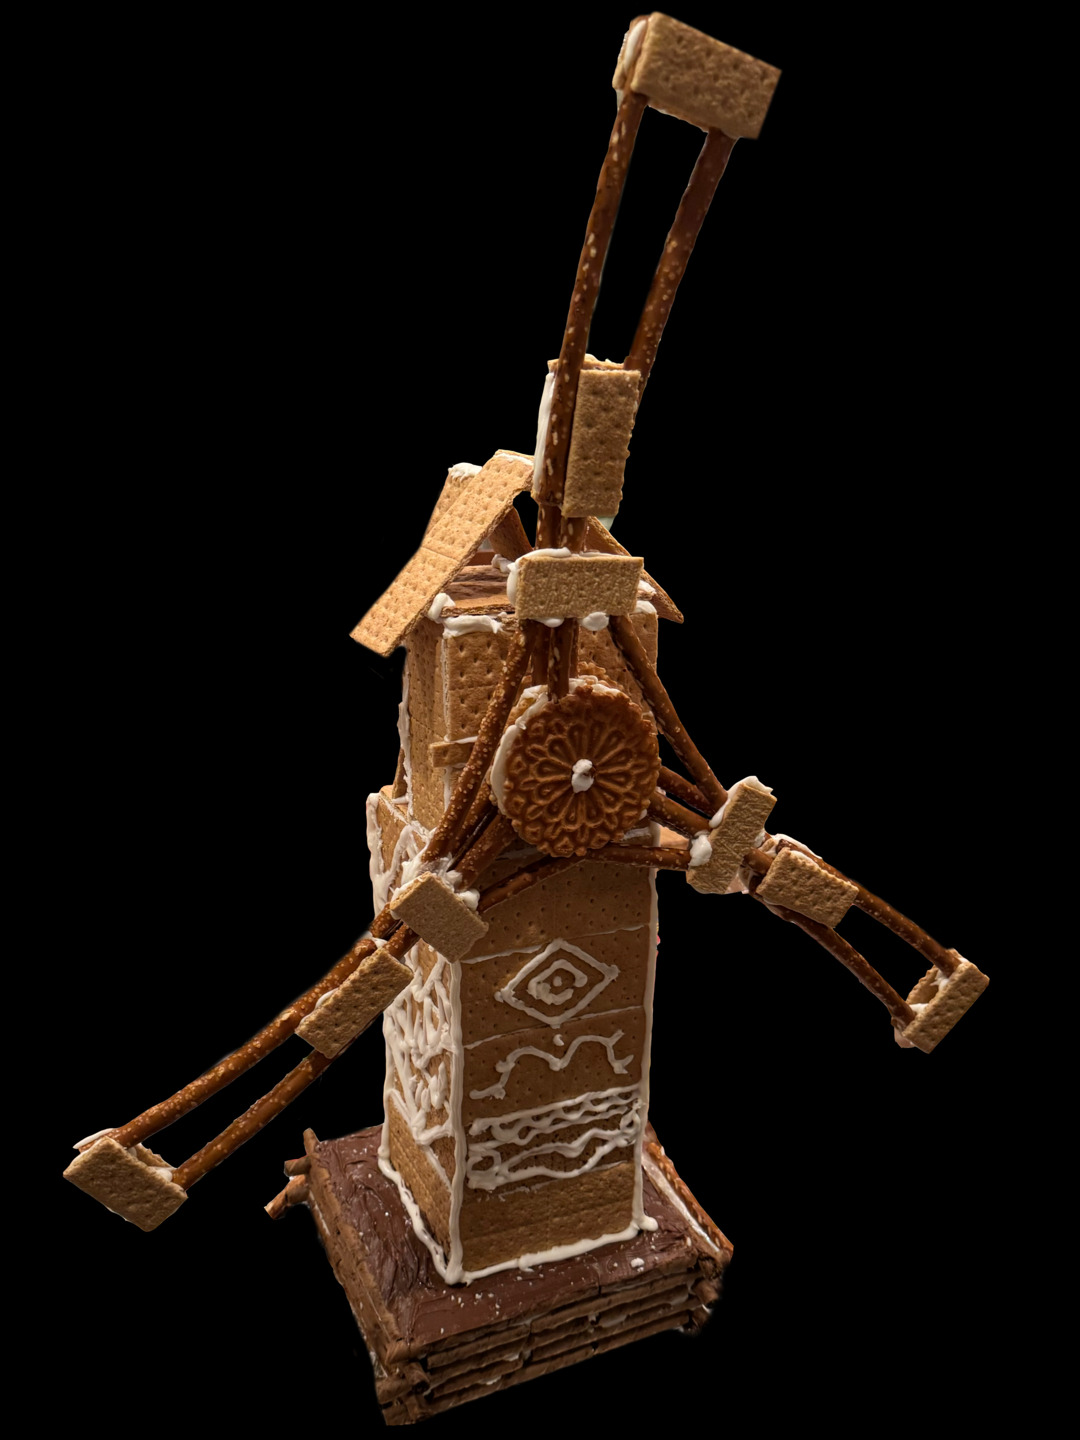
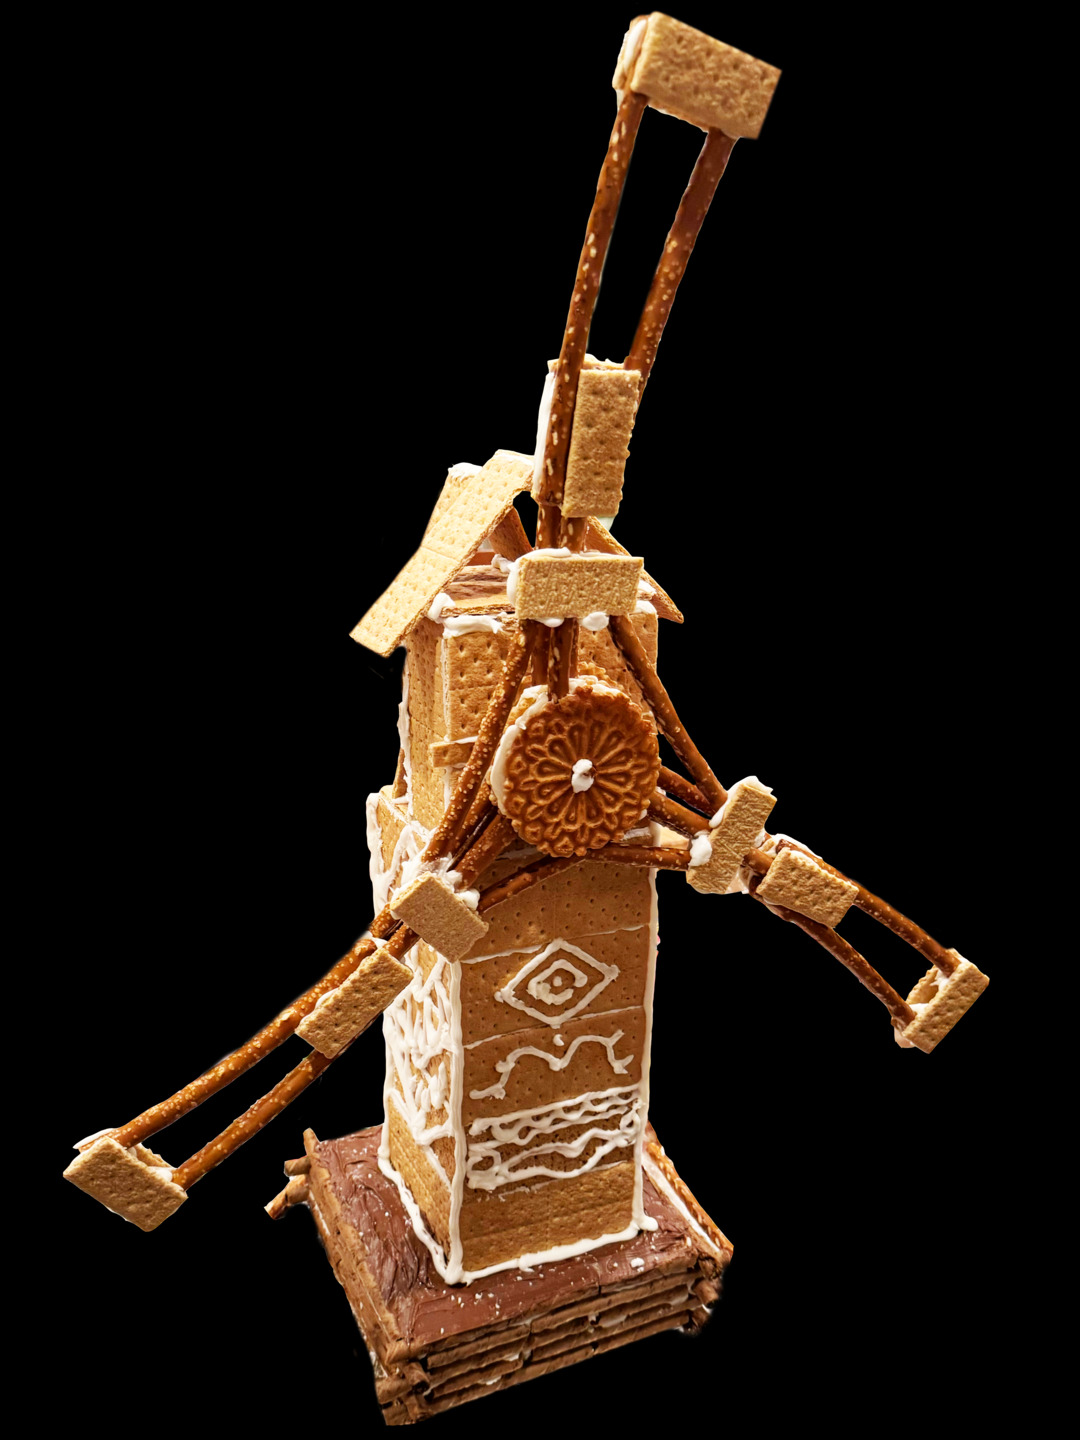
More updates to 2025 page

Changed region(s): [[0.0611, 0.0, 0.9167, 1.0]]

diff --git a/2025/draft/index.html b/2025/draft/index.html
@@ -92,9 +92,10 @@
                 </div>
                 <p class="card-text">
                     Inspired by the whimsical architecture of Shiz University,
-                    this library holds all your favorite tales.
-                    Take a journey through its shelves, ladders, and windows
-                    (and note the central shelf is actually able to rotate!)
+                    this library opens the doors to your every imagination.
+                    Wander through its nooks and candies,
+                    climb its ladders, and meet some familiar frosted faces!
+                    This edible architecture comes to life with a 360&deg; rotating shelf that will send you spinning.
                     This scene will certainly have you dancing through life!
                 </p>
                 <div class="image-slideshow">
@@ -123,10 +124,16 @@
 
             <div class="card" id="theme-park">
                 <div class="card-title">
-                    <h1>Theme Park</h1>
+                    <h1>AmuseMint Park</h1>
                     <!-- <img class="logo" src="../gallery/theme_park/logo.png" width="90px"> -->
                 </div>
-                <p class="card-text">placeholder text
+                <p class="card-text">
+                    Come dashing through the snow to these thrilling and delicious rides!
+                    Jingle all the way around the <strong>Sugar Plum Ferris Wheel</strong>.
+                    Over the hills you'll go on the <strong>Polar Roller Coaster</strong>.
+                    Laughing all the way on the <strong>Merry-Christmas-Go-Round Carousel</strong>.
+                    Making spirits fright at the <strong>Chimney Drop Tower</strong>.
+                    What fun it is to ride and sing on the <strong>Mistletoe Spinny Swing</strong>.
                 </p>
                 <div class="image-slideshow">
                     <button class="image-arrow" onclick="move_slideshow('theme-park', direction=-1)">&#10094;</button>
@@ -227,7 +234,7 @@
                     <!-- <img class="logo" src="../gallery/windmill/logo.png" width="90px"> -->
                 </div>
                 <p class="card-text">
-                    A Short Tale of Waiting and Falling<br>
+                    <em>A Short Tale of Waiting and Falling</em><br>
                     Long, long ago, the gingerbread body of this little mill was built.
                     When the walls were finished, it stood still, looking up at the sky, dreaming of its wind vanes.
                     The Mill waited with bated breath for the Master to finish the work and grant it the wings it needed to become real!
@@ -253,9 +260,6 @@
                     <img src="../gallery/windmill/2.jpg" onclick="move_slideshow('windmill', direction=null, target=1)" class="image-sm tall">
                     <img src="../gallery/windmill/3.jpg" onclick="move_slideshow('windmill', direction=null, target=2)" class="image-sm tall">
                     <img src="../gallery/windmill/4.jpg" onclick="move_slideshow('windmill', direction=null, target=3)" class="image-sm tall">
-                </div>
-                <div class="card-notice">
-                    <strong>Disclosure:</strong> After this entry suffered a catastrophic gingerbread construction incident which caused two rotor blades to detach from the windshaft, our top scientists employed advanced digital techniques (Photoshop and Christmas cheer) to depict the windmill as its creator intended.
                 </div>
             </div>
 
@@ -290,10 +294,12 @@
 
             <div class="card" id="swimming-pool">
                 <div class="card-title">
-                    <h1>Swimming Pool</h1>
+                    <h1>Graham Lagoon Aquatic Center</h1>
                     <!-- <img class="logo" src="../gallery/swimming_pool/logo.png" width="90px"> -->
                 </div>
-                <p class="card-text">placeholder text
+                <p class="card-text">
+                    Welcome to Graham Lagoon Aquatic Center &mdash; where the water is blue jelly,
+                    the lifeguards are questionable, and the swimmers are gummy bears training like it's the Olympics.
                 </p>
                 <div class="image-slideshow">
                     <button class="image-arrow" onclick="move_slideshow('swimming-pool', direction=-1)">&#10094;</button>
@@ -304,7 +310,6 @@
                         <img src="../gallery/swimming_pool/4.jpg" class="image-lg">
                         <img src="../gallery/swimming_pool/5.jpg" class="image-lg">
                         <img src="../gallery/swimming_pool/6.jpg" class="image-lg">
-                        <img src="../gallery/swimming_pool/7.jpg" class="image-lg">
                     </div>
                     <button class="image-arrow" onclick="move_slideshow('swimming-pool', direction=+1)">&#10095;</button>
                 </div>
@@ -315,7 +320,6 @@
                     <img src="../gallery/swimming_pool/4.jpg" onclick="move_slideshow('swimming-pool', direction=null, target=3)" class="image-sm wide">
                     <img src="../gallery/swimming_pool/5.jpg" onclick="move_slideshow('swimming-pool', direction=null, target=4)" class="image-sm wide">
                     <img src="../gallery/swimming_pool/6.jpg" onclick="move_slideshow('swimming-pool', direction=null, target=5)" class="image-sm wide">
-                    <img src="../gallery/swimming_pool/7.jpg" onclick="move_slideshow('swimming-pool', direction=null, target=6)" class="image-sm wide">
                 </div>
                 <div class="card-notice">
                     <strong>Disclosure:</strong> During a routine ingredient audit, it was determined that this entry incorporated non-edible materials, including a glass pan and string. While this rule violation necessitates disclosure, the true meaning of Christmas prevails, keeping this entry in the competition.
